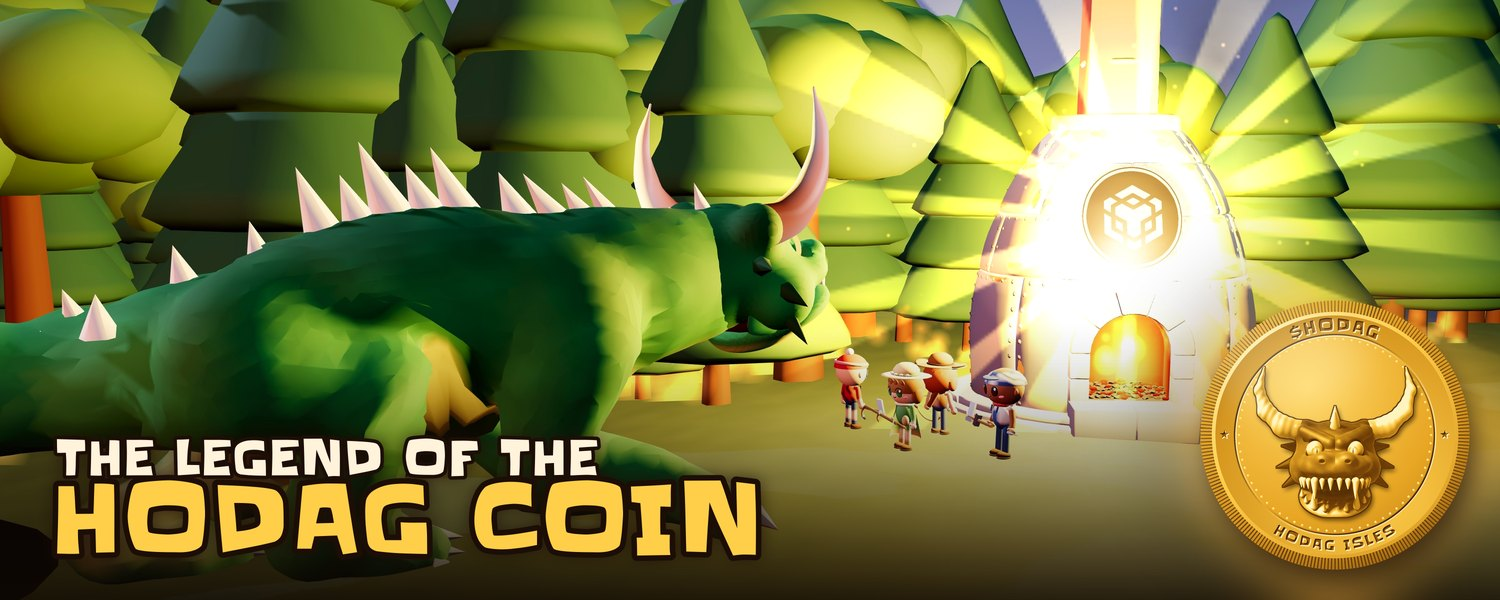
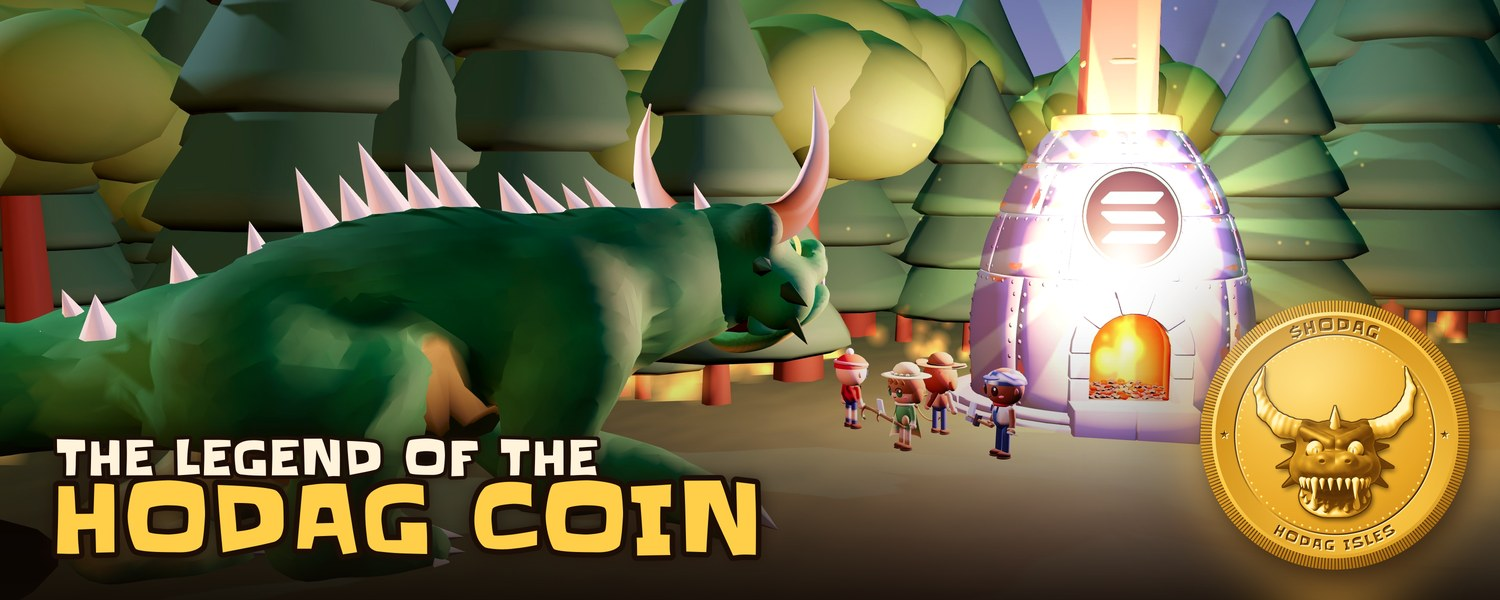
Move to Solana: wallet, TimberPass and Squonk in SOL, Solana mark on the stove

diff --git a/README.md b/README.md
@@ -1,18 +1,18 @@
 ---
-description: A free multiplayer browser game on BNB Chain, built on American tall tales.
+description: A free multiplayer browser game on Solana, built on American tall tales.
 cover: .gitbook/assets/banner.jpg
 coverY: 0
 ---
 
 # Welcome to Hodag Isles
 
-![](.gitbook/assets/09_bnb_stove_flare.jpg)
+![](.gitbook/assets/09_sol_stove_flare.jpg)
 
 **Paul Bunyan's crew cut the wrong tree, and the Great Hodag woke up.**
 
-The beast burned the boats and ringed the isles with fire. The only thing it fears is the gold glow of the camp's giant stove, so the crew keeps feeding it, day and night.
+The beast burned the boats and ringed the isles with fire. The only thing it fears is the purple-to-green glow of the camp's giant stove, so the crew keeps feeding it, day and night.
 
-**Hodag Isles** is a free multiplayer game you play in your browser, on **BNB Chain**. No download, no install: you wash ashore, grab a log and join the crew.
+**Hodag Isles** is a free multiplayer game you play in your browser, on **Solana**. No download, no install: you wash ashore, grab a log and join the crew.
 
 > **Keep the stove roaring. The Hodag is watching.**
 
@@ -24,11 +24,11 @@ The beast burned the boats and ringed the isles with fire. The only thing it fea
 * 🔥 **Train, then fight the Great Hodag** with your crew.
 * 🎣 **Fish, swim, explore** the isles and meet the legends of American folklore.
 
-## Built on BNB Chain
+## Built on Solana
 
-* Sign in with your **BNB wallet** (one free signature, nothing is sent).
-* The **TimberPass** season pass is paid in **BNB**.
-* **$HODAG**, the camp's coin, launches on **flap**.
+* Sign in with your **Solana wallet** (one free signature, nothing is sent).
+* The **TimberPass** season pass is paid in **SOL**.
+* **$HODAG**, the camp's coin, launches on **Solana**.
 
 ## Start here
 

diff --git a/token/hodag.md b/token/hodag.md
@@ -1,5 +1,5 @@
 ---
-description: The camp's coin, launching on flap on BNB Chain.
+description: The camp's coin, launching on Solana.
 ---
 
 # The Hodag Coin
@@ -8,7 +8,7 @@ description: The camp's coin, launching on flap on BNB Chain.
 
 ## The legend
 
-One night the Big Stove roared hotter than ever, and its golden BNB mark blazed so bright the Hodag reared back into the trees. Big Ole the blacksmith pulled a bar of gold from the glow and struck the first coin. On its face: the horned head of the Great Hodag. Around the rim Johnny Inkslinger engraved **$HODAG** and **HODAG ISLES**.
+One night the Big Stove roared hotter than ever, and its three-bar Solana mark blazed purple to green, so bright the Hodag reared back into the trees. Big Ole the blacksmith pulled a bar of gold from the glow and struck the first coin. On its face: the horned head of the Great Hodag. Around the rim Johnny Inkslinger engraved **$HODAG** and **HODAG ISLES**.
 
 *"So nobody forgets what we're up against. And so nobody forgets we're still here."*
 
@@ -18,10 +18,9 @@ One night the Big Stove roared hotter than ever, and its golden BNB mark blazed 
 |---|---|
 | **Name** | Hodag Isles |
 | **Ticker** | $HODAG |
-| **Chain** | BNB Smart Chain |
-| **Launchpad** | flap |
+| **Chain** | Solana |
 
-$HODAG is the coin of the Hodag Isles community. Players earn it in the game before launch (see [Earn Before Launch](earn.md)), and rewards are paid in $HODAG on BNB Chain after launch.
+$HODAG is the coin of the Hodag Isles community. Players earn it in the game before launch (see [Earn Before Launch](earn.md)), and rewards are paid in $HODAG on Solana after launch.
 
 {% hint style="warning" %}
 Fake tokens with the same name will appear. Be careful what you buy.

diff --git a/solana/wallet.md b/solana/wallet.md
@@ -1,10 +1,16 @@
 ---
-description: Your progress follows your BNB wallet.
+description: Your progress follows your Solana wallet.
 ---
 
 # Sign In with Your Wallet
 
-You can sign in with a **BNB Chain wallet** or with **X**.
+You can sign in with a **Solana wallet** or with **X**.
+
+## Which wallets work
+
+* **Phantom**, **Solflare**, **Backpack**, or any wallet that supports Solana's Wallet Standard.
+* **On a computer:** use the wallet's browser extension, then press connect in the game.
+* **On a phone:** open [hodagisles.xyz](https://hodagisles.xyz) inside the wallet app's own browser (Phantom, Solflare or Backpack) and connect there.
 
 ## What signing in does
 
@@ -14,7 +20,7 @@ You can sign in with a **BNB Chain wallet** or with **X**.
 
 ## Is it safe?
 
-Signing in with your wallet asks for **one free signature**. It proves the wallet is yours. **It sends nothing and costs no gas.**
+Signing in with your wallet asks you to **sign one free message**. It proves the wallet is yours. **It sends nothing, costs nothing and gives no permission.**
 
 {% hint style="danger" %}
 Hodag Isles will **never** ask for your seed phrase or private key, and never asks you to send funds to "verify" your wallet. See [Stay Safe](../community/safety.md).

diff --git a/token/earn.md b/token/earn.md
@@ -7,7 +7,7 @@ description: Every reward is counted to your account.
 You can earn **$HODAG** rewards now, before the token launches. Johnny Inkslinger keeps the ledger: the game counts every reward to your account, and you can see your total in the **Rewards** panel.
 
 {% hint style="info" %}
-You need to be signed in with **X** or a **BNB wallet** to earn. Guests can't earn rewards.
+You need to be signed in with **X** or a **Solana wallet** to earn. Guests can't earn rewards.
 {% endhint %}
 
 ## Ways to earn
@@ -28,12 +28,12 @@ Post about the game on X, then paste your post's link in the game. It's checked 
 
 ### Whitelist
 
-Do the quests on the whitelist board, then apply with your BNB wallet.
+Do the quests on the whitelist board, then apply with your Solana wallet address.
 
 ## Getting paid
 
-Rewards are paid in **$HODAG** on BNB Chain, to the wallet on your account, after launch.
+Rewards are paid in **$HODAG** on Solana, to the wallet on your account, after launch.
 
 {% hint style="warning" %}
-Connect your BNB wallet before payout so your rewards have somewhere to go.
+Connect your Solana wallet before payout so your rewards have somewhere to go.
 {% endhint %}

diff --git a/solana/timberpass.md b/solana/timberpass.md
@@ -1,0 +1,37 @@
+---
+description: The season pass, paid in SOL.
+---
+
+# TimberPass
+
+The **TimberPass** is the season pass: 30 tiers of rewards, skins and extra quests. You climb the tiers by playing.
+
+## Season 1: First Frost
+
+| | |
+|---|---|
+| **Tiers** | 30 |
+| **Length** | 21 days, from 11 November 2026 |
+
+## Prices
+
+Prices are set in US dollars and paid in **SOL** on Solana at the current rate.
+
+| Item | Price |
+|---|---|
+| **TimberPass** | $5 |
+| **Blaze** (the higher pass level) | $10 |
+| **Blaze upgrade** (if you already own the TimberPass) | $5 |
+| **Tier skip** | $0.50 |
+
+## How paying works
+
+* You pay from the wallet linked to your account, with a normal SOL transfer that you approve in the wallet.
+* The price in SOL is held for **15 minutes**.
+* Keep a little extra SOL for the network fee (a tiny fraction of a cent).
+* The server checks every payment on the Solana chain before it unlocks anything.
+* If you send by hand, paste the **transaction signature** (or a [Solscan](https://solscan.io) link) in the game.
+
+{% hint style="info" %}
+The free track is open to everyone; the pass adds the paid rewards on top.
+{% endhint %}

diff --git a/community/faq.md b/community/faq.md
@@ -16,7 +16,7 @@ Yes. The game is free to play in your browser. The TimberPass and feeding the Sq
 
 <summary>Do I need a wallet to play?</summary>
 
-No. You can play as a guest. Sign in with X or a BNB wallet to save your progress and earn $HODAG rewards.
+No. You can play as a guest. Sign in with X or a Solana wallet to save your progress and earn $HODAG rewards.
 
 </details>
 
@@ -32,7 +32,7 @@ Yes. Hodag Isles runs in mobile browsers with on-screen controls.
 
 <summary>Which chain is it on?</summary>
 
-BNB Smart Chain. The TimberPass and the Squonk take BNB, and $HODAG launches on flap on BNB Chain.
+Solana. The TimberPass and the Squonk take SOL, and $HODAG launches on Solana.
 
 </details>
 
@@ -40,7 +40,7 @@ BNB Smart Chain. The TimberPass and the Squonk take BNB, and $HODAG launches on 
 
 <summary>When do I get my $HODAG rewards?</summary>
 
-After the token launches. They're paid on BNB Chain to the wallet on your account. Check your total in the Rewards panel.
+After the token launches. They're paid on Solana to the wallet on your account. Check your total in the Rewards panel.
 
 </details>
 

diff --git a/community/media-kit.md b/community/media-kit.md
@@ -21,7 +21,8 @@ Making a video, a thread or fan art? Use these.
 | Name | Hex | Use |
 |---|---|---|
 | Stove gold | `#FFCF4A` | Titles, highlights |
-| BNB yellow | `#F0B90B` | Anything BNB Chain |
+| Solana purple | `#9945FF` | Anything Solana |
+| Solana green | `#14F195` | Anything Solana (with purple) |
 | Ember ink | `#1C0E06` | Outlines, dark panels |
 | Campfire cream | `#FFF3DC` | Body text on dark |
 | Hodag green | `#3F8A2E` | The beast |
@@ -39,8 +40,8 @@ All free from Google Fonts:
 * Keep the stove roaring. The Hodag is watching.
 * They cut the wrong tree.
 * It's awake.
-* Play free in your browser · Built on BNB Chain
+* Play free in your browser · Built on Solana
 
 {% hint style="info" %}
-Use the BNB Chain mark only to say Hodag Isles is built on BNB Chain. Don't suggest that Binance or BNB Chain endorses the project.
+Use the Solana mark only to say Hodag Isles is built on Solana. Don't suggest that Solana endorses the project.
 {% endhint %}

diff --git a/story/the-tale.md b/story/the-tale.md
@@ -30,11 +30,11 @@ No boats. No way home. Paul went for help, and Paul has not come back.
 
 ## The one thing it fears
 
-Deep in the woods the crew found Paul's camp stove, the **Big Stove**: as tall as a barn, riveted iron, with a chimney you could lose a moose in. Above the fire door shines a golden **BNB** mark.
+Deep in the woods the crew found Paul's camp stove, the **Big Stove**: as tall as a barn, riveted iron, with a chimney you could lose a moose in. Above the fire door shines the three-bar **Solana** mark.
 
-When the stove roars, the mark blazes gold, and the Hodag can't stand the light. It rears back and runs into the trees.
+When the stove roars, the mark blazes purple to green, and the Hodag can't stand the light. It rears back and runs into the trees.
 
-![](../.gitbook/assets/09_bnb_stove_flare.jpg)
+![](../.gitbook/assets/09_sol_stove_flare.jpg)
 
 So the crew has one job: **keep the stove roaring.**
 

diff --git a/solana/squonk.md b/solana/squonk.md
@@ -1,0 +1,18 @@
+---
+description: The camp's saddest critter takes SOL.
+---
+
+# Feed the Squonk
+
+The **Squonk** sits by the stove, weeping and begging for coins. He apologises for everything, and he knows every secret on the isles.
+
+## How it works
+
+* Talk to the Squonk and pick an amount (**$1, $5, $10, $25, $50** or your own), paid in **SOL** on Solana at the current rate.
+* You send it from the wallet linked to your account. The price in SOL is held for 15 minutes, and you need a little extra SOL for the network fee.
+* The server checks the payment on the Solana chain. Then the whole room watches the coins fly.
+* The Squonk pays you back in **secrets**: hints about the isles.
+
+{% hint style="info" %}
+Feeding the Squonk is a donation to support the game. It's optional, and it doesn't buy any advantage in fights.
+{% endhint %}

diff --git a/community/safety.md b/community/safety.md
@@ -12,4 +12,4 @@ description: Don't let the Hodag in a trench coat get you.
 * **We never DM first** asking you to "verify", "sync" or "claim" by sending tokens.
 * **Only use the official links** on the [Links](links.md) page.
 * **Watch out for copycat tokens** with the same name.
-* **All payments in the game** (TimberPass, the Squonk) are normal BNB transfers you approve yourself in your wallet. Check the amount before you approve.
+* **All payments in the game** (TimberPass, the Squonk) are normal SOL transfers on Solana that you approve yourself in your wallet. Check the amount before you approve.

diff --git a/play/getting-started.md b/play/getting-started.md
@@ -11,7 +11,7 @@ Hodag Isles runs in your browser on desktop and phone. There's nothing to downlo
 ## 2. Play as a guest, or sign in
 
 * **Guest:** jump straight in. Good for a first look.
-* **Signed in** with **X** or a **BNB wallet**: your progress, hero and rewards follow your account, and you can earn **$HODAG** rewards. See [Sign In with Your Wallet](../bnb/wallet.md).
+* **Signed in** with **X** or a **Solana wallet**: your progress, hero and rewards follow your account, and you can earn **$HODAG** rewards. See [Sign In with Your Wallet](../solana/wallet.md).
 
 ## 3. Read the guide
 

diff --git a/play/feed-the-stove.md b/play/feed-the-stove.md
@@ -19,7 +19,7 @@ While the Big Stove roars, the Hodag keeps its distance. When it cools, the beas
 ## How to feed it
 
 1. Pick up a log with **E**.
-2. Carry it to the Big Stove (the iron dome with the golden BNB mark).
+2. Carry it to the Big Stove (the iron dome with the glowing three-bar Solana mark).
 3. Hold the mouse button to aim, then let go to throw it into the fire door.
 
 {% hint style="info" %}
